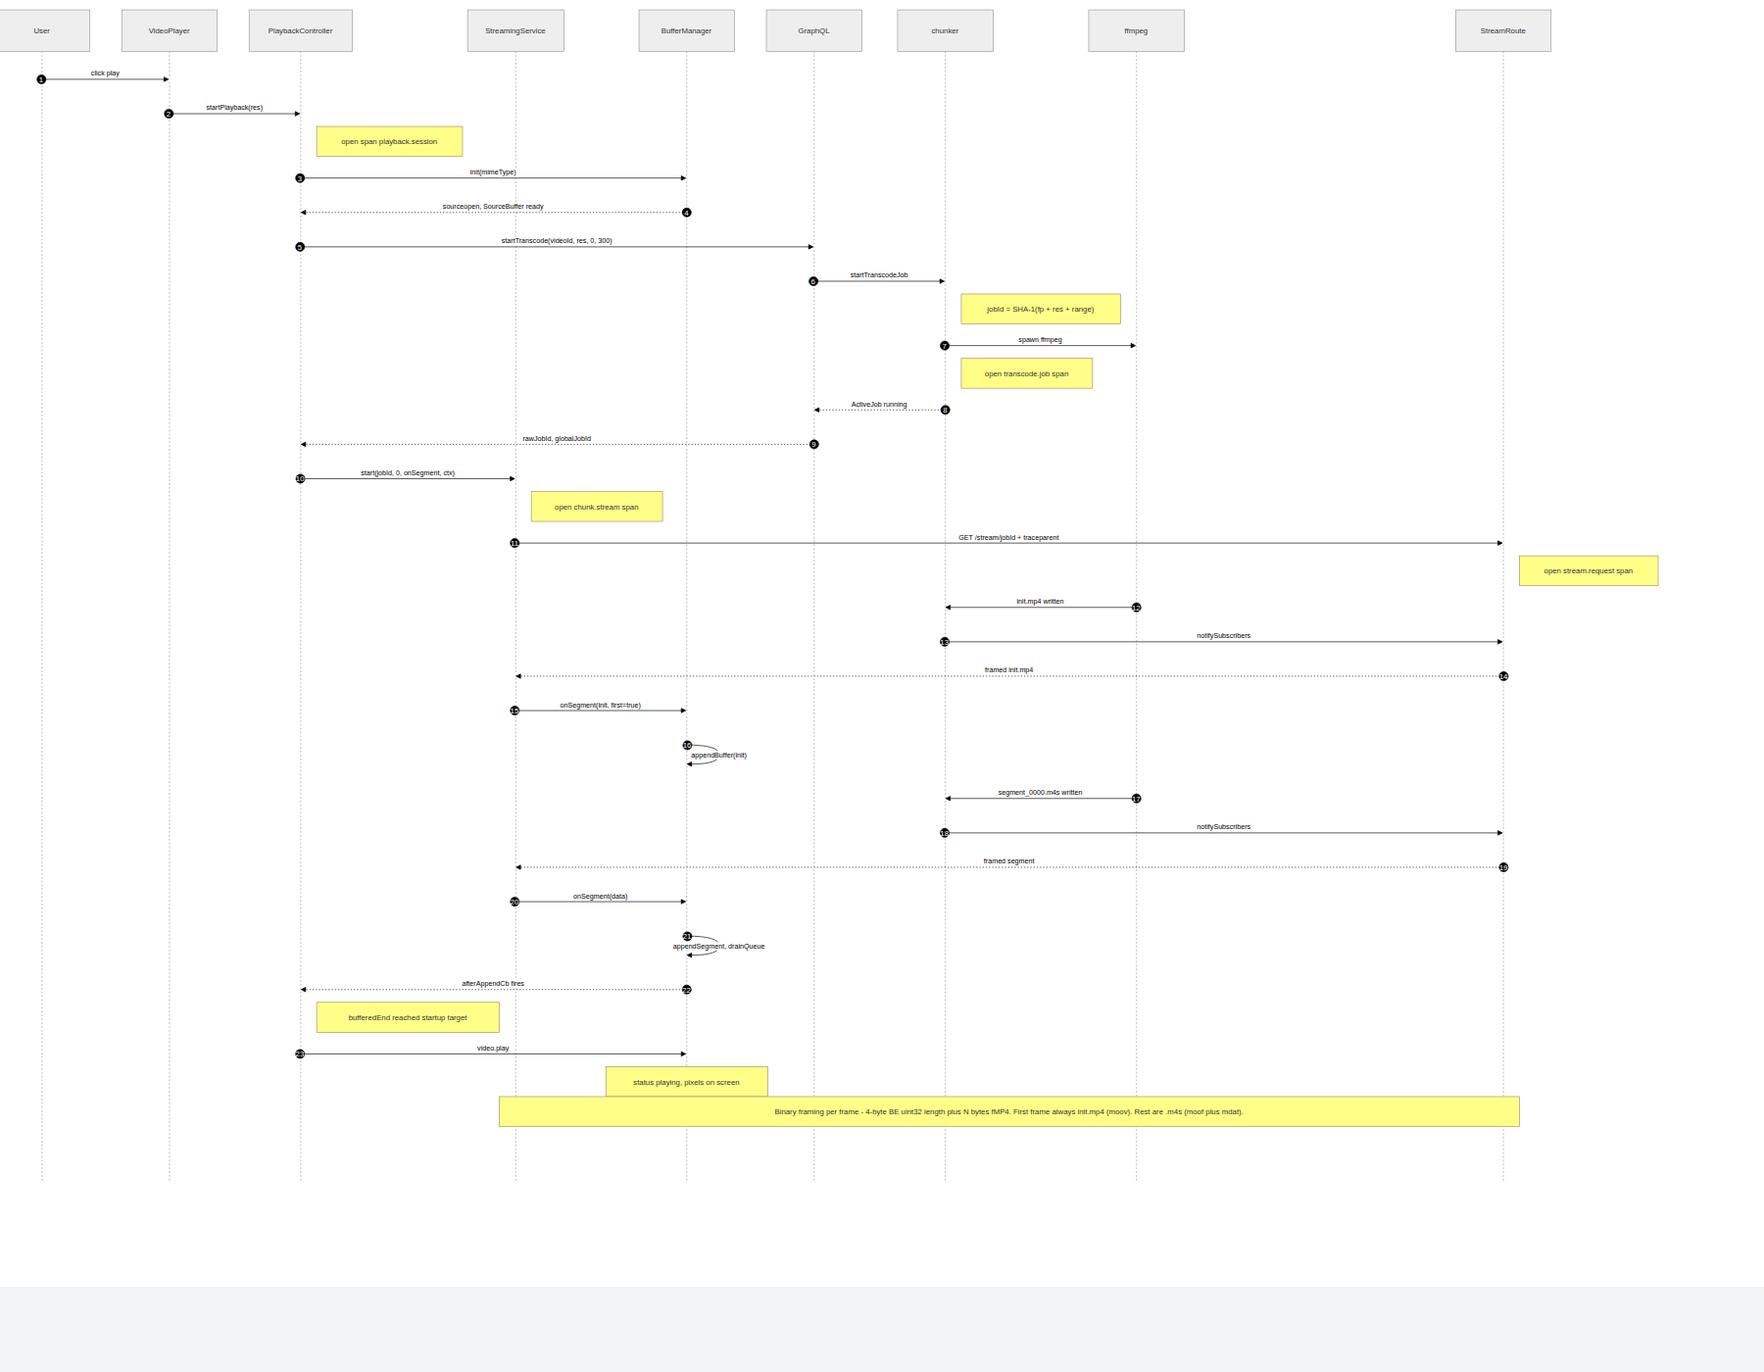
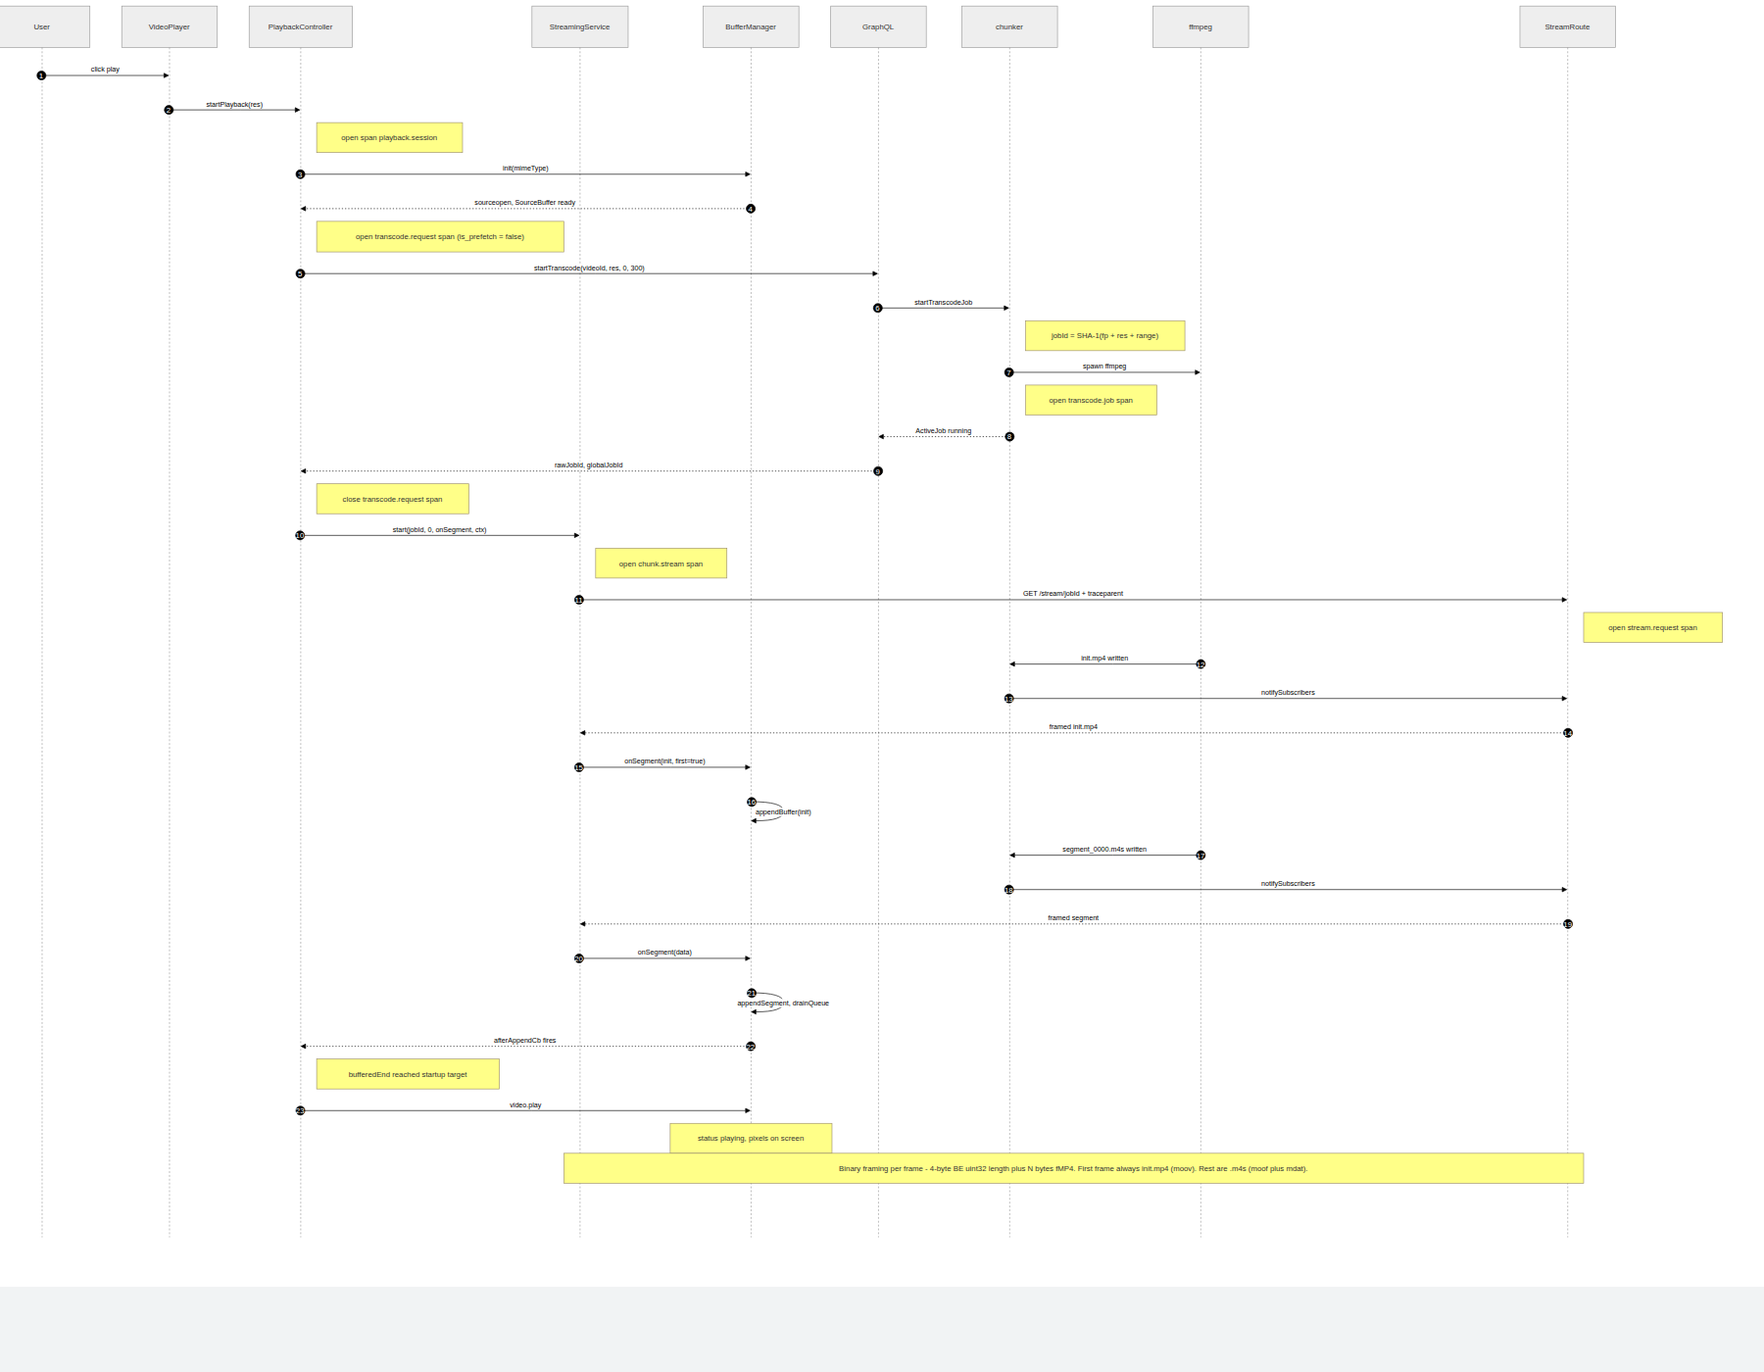
feat(telemetry): add buffer.halt + transcode.request spans
Adds two new OTel spans to close the observability gaps requested:

- `buffer.halt` (BufferManager.checkForwardBuffer) — opens when
  bufferedAhead crosses FORWARD_TARGET_S (20s) and the append loop
  pauses; closes when it drains back under RESUME_THRESHOLD_S (15s).
  Parented under `playback.session` (not `chunk.stream`) so halts that
  span chunk boundaries are still measured end-to-end. Attributes:
  buffered_ahead at pause/resume, target_s, resume_threshold_s,
  bytes_at_pause. Leaked spans are closed in `teardown()`.

- `transcode.request` (PlaybackController.requestChunk) — wraps the
  `startTranscodeChunk` mutation so the automatic graphql.request HTTP
  span nests underneath. `chunk.is_prefetch` attribute separates the
  click-play / seek / resolution-switch requests from the 60s-lookahead
  prefetches.

Also enriches the existing `chunk.stream` span with `bytes_streamed`
and `segments_received` end-attributes so per-chunk bandwidth is one
span away instead of an aggregation over segment logs.

Docs + the four streaming sequence diagrams (plus regenerated PNGs)
are updated in the same commit per the /update-docs policy.

diff --git a/client/src/services/PlaybackController.ts b/client/src/services/PlaybackController.ts
@@ -327,18 +327,26 @@ export class PlaybackController {
     // stream.request under this chunk.stream span.
     const chunkCtx = trace.setSpan(getSessionContext(), chunkSpan);
 
-    const wrappedOnDone = (): void => {
+    let totalMediaBytes = 0;
+    let segmentCount = 0;
+
+    const endChunkSpan = (): void => {
+      chunkSpan.setAttribute("chunk.bytes_streamed", totalMediaBytes);
+      chunkSpan.setAttribute("chunk.segments_received", segmentCount);
       chunkSpan.end();
+    };
+
+    const wrappedOnDone = (): void => {
+      endChunkSpan();
       onDone();
     };
     const wrappedOnError = (err: Error): void => {
       chunkSpan.setStatus({ code: SpanStatusCode.ERROR, message: err.message });
-      chunkSpan.end();
+      endChunkSpan();
       onError(err);
     };
 
     const svc = new StreamingService();
-    let totalMediaBytes = 0;
     const videoEl = this.deps.videoEl;
 
     void svc.start(
@@ -357,6 +365,7 @@ export class PlaybackController {
 
         if (!isInit) {
           totalMediaBytes += segData.byteLength;
+          segmentCount += 1;
         }
 
         try {
@@ -396,7 +405,8 @@ export class PlaybackController {
           });
           buffer.markStreamDone();
           this.events.onJobCreated(null);
-          chunkSpan.end();
+          chunkSpan.addEvent("chunk_no_real_content");
+          endChunkSpan();
           return;
         }
         wrappedOnDone();
@@ -408,29 +418,57 @@ export class PlaybackController {
 
   // ── Chunk scheduler ────────────────────────────────────────────────────────
 
-  /** Fires a startTranscode mutation for the given time window and returns the raw job ID. */
-  private requestChunk(res: Resolution, startS: number, endS: number): Promise<string> {
+  /** Fires a startTranscode mutation for the given time window and returns the raw job ID.
+   * `isPrefetch` distinguishes RAF-driven prefetch requests from on-demand chain calls
+   * on the `transcode.request` span so Seq queries like
+   * `SpanName = 'transcode.request' and chunk.is_prefetch = true` are one click away. */
+  private requestChunk(
+    res: Resolution,
+    startS: number,
+    endS: number,
+    isPrefetch: boolean
+  ): Promise<string> {
     const videoDurationS = this.deps.getVideoDurationS();
     const clampedEnd = Math.min(endS, videoDurationS);
-    playbackLog.info(`Requesting chunk [${startS}s, ${clampedEnd}s)`, {
-      start_s: startS,
-      end_s: clampedEnd,
-    });
-    return this.deps
-      .startTranscodeChunk({
-        resolution: res,
-        startTimeSeconds: startS,
-        endTimeSeconds: clampedEnd,
-      })
+    playbackLog.info(
+      `Requesting chunk [${startS}s, ${clampedEnd}s)${isPrefetch ? " (prefetch)" : ""}`,
+      { start_s: startS, end_s: clampedEnd, is_prefetch: isPrefetch }
+    );
+    const sessionCtx = getSessionContext();
+    const requestSpan = playbackTracer.startSpan(
+      "transcode.request",
+      {
+        attributes: {
+          "chunk.start_s": startS,
+          "chunk.end_s": clampedEnd,
+          "chunk.resolution": res,
+          "chunk.is_prefetch": isPrefetch,
+        },
+      },
+      sessionCtx
+    );
+    const requestCtx = trace.setSpan(sessionCtx, requestSpan);
+    return context
+      .with(requestCtx, () =>
+        this.deps.startTranscodeChunk({
+          resolution: res,
+          startTimeSeconds: startS,
+          endTimeSeconds: clampedEnd,
+        })
+      )
       .then(({ rawJobId, globalJobId }) => {
         this.events.onJobCreated(globalJobId);
+        requestSpan.setAttribute("chunk.job_id", rawJobId);
+        requestSpan.end();
         playbackLog.info(
           `Chunk job ${rawJobId.slice(0, 8)} created for [${startS}s, ${clampedEnd}s)`,
-          { job_id: rawJobId, start_s: startS, end_s: clampedEnd }
+          { job_id: rawJobId, start_s: startS, end_s: clampedEnd, is_prefetch: isPrefetch }
         );
         return rawJobId;
       })
       .catch((err: Error) => {
+        requestSpan.setStatus({ code: SpanStatusCode.ERROR, message: err.message });
+        requestSpan.end();
         playbackLog.error("Chunk mutation error", { message: err.message });
         throw err;
       });
@@ -452,7 +490,7 @@ export class PlaybackController {
     this.chunkEnd = chunkEnd;
     this.prefetchFired = false;
 
-    void this.requestChunk(res, startS, chunkEnd)
+    void this.requestChunk(res, startS, chunkEnd, false)
       .then((rawJobId) => {
         const isLast = chunkEnd >= videoDurationS;
 
@@ -528,7 +566,7 @@ export class PlaybackController {
               time_until_end_s: parseFloat(timeUntilEnd.toFixed(1)),
             }
           );
-          void this.requestChunk(res, nextStart, nextEnd)
+          void this.requestChunk(res, nextStart, nextEnd, true)
             .then((rawJobId) => {
               this.nextJobId = rawJobId;
             })
@@ -625,7 +663,8 @@ export class PlaybackController {
         void this.requestChunk(
           newRes,
           chunkStart,
-          Math.min(chunkStart + CHUNK_DURATION_S, videoDurationS)
+          Math.min(chunkStart + CHUNK_DURATION_S, videoDurationS),
+          false
         )
           .then((rawJobId) => {
             const bgSvc = this.streamChunk(

diff --git a/client/src/services/BufferManager.ts b/client/src/services/BufferManager.ts
@@ -1,6 +1,11 @@
-import { getClientLogger } from "~/telemetry.js";
+import { type Span } from "@opentelemetry/api";
+
+import { getClientLogger, getClientTracer } from "~/telemetry.js";
+
+import { getSessionContext } from "./playbackSession.js";
 
 const log = getClientLogger("bufferManager");
+const tracer = getClientTracer("bufferManager");
 
 const DEFAULT_FORWARD_BUFFER_TARGET_S = 20;
 const BACK_BUFFER_KEEP_S = 5;
@@ -29,6 +34,7 @@ export class BufferManager {
   private forwardTarget: number;
   private forwardResume: number;
   private streamPaused = false;
+  private haltSpan: Span | null = null;
   private afterAppendCb: (() => void) | null = null;
   private seekAbort = false;
   private videoDurationS: number;
@@ -339,6 +345,18 @@ export class BufferManager {
           buffer_mb: parseFloat(bufMb),
         }
       );
+      this.haltSpan = tracer.startSpan(
+        "buffer.halt",
+        {
+          attributes: {
+            "buffer.buffered_ahead_s_at_pause": parseFloat(bufferedAhead.toFixed(1)),
+            "buffer.target_s": this.forwardTarget,
+            "buffer.resume_threshold_s": this.forwardResume,
+            "buffer.bytes_at_pause": this.bytesInBuffer,
+          },
+        },
+        getSessionContext()
+      );
       this.onPause();
     } else if (bufferedAhead < this.forwardResume && this.streamPaused) {
       this.streamPaused = false;
@@ -352,6 +370,14 @@ export class BufferManager {
           buffer_mb: parseFloat(bufMb),
         }
       );
+      if (this.haltSpan) {
+        this.haltSpan.setAttribute(
+          "buffer.buffered_ahead_s_at_resume",
+          parseFloat(bufferedAhead.toFixed(1))
+        );
+        this.haltSpan.end();
+        this.haltSpan = null;
+      }
       this.onResume();
     }
   }
@@ -495,5 +521,10 @@ export class BufferManager {
     this.bytesInBuffer = 0;
     this.evictionCount = 0;
     this.segmentsAppended = 0;
+    if (this.haltSpan) {
+      this.haltSpan.addEvent("halt_ended_by_teardown");
+      this.haltSpan.end();
+      this.haltSpan = null;
+    }
   }
 }

diff --git a/docs/architecture.md b/docs/architecture.md
@@ -137,12 +137,12 @@ The client drives transcoding in **300-second chunks** rather than encoding the 
 
 > Source: [`streaming-01-initial-playback.mmd`](./diagrams/streaming-01-initial-playback.mmd)
 
-`useChunkedPlayback.startPlayback(res)` opens the `playback.session` span and drives the boot sequence:
+`PlaybackController.startPlayback(res)` opens the `playback.session` span and drives the boot sequence:
 
 1. `BufferManager.init(mimeType)` creates a `MediaSource` and arms a `SourceBuffer`.
-2. The `startTranscode` GraphQL mutation hands the server a `(videoId, resolution, 0, 300)` window.
-3. `chunker.startTranscodeJob` computes a deterministic `jobId = SHA-1(fingerprint + res + start + end)`. If `tmp/segments/<jobId>/init.mp4` exists the job is restored from cache; otherwise a new ffmpeg process spawns and `fs.watch` starts tracking segment files.
-4. The client opens a `chunk.stream` span and calls `StreamingService.start(jobId, …, ctx)`. `ctx` is propagated as `traceparent`, so the server's `stream.request` span nests under the client's `chunk.stream`.
+2. `PlaybackController.requestChunk` opens a `transcode.request` span (with `chunk.is_prefetch = false`) around the `startTranscode` GraphQL mutation for the `(videoId, resolution, 0, 300)` window. The auto-generated `graphql.request` HTTP span nests underneath via `context.with`. The span closes when the mutation resolves and records `chunk.job_id`.
+3. `chunker.startTranscodeJob` computes a deterministic `jobId = SHA-1(fingerprint + res + start + end)`. If `tmp/segments/<jobId>/init.mp4` exists the job is restored from cache; otherwise a new ffmpeg process spawns and `fs.watch` starts tracking segment files. The `transcode.job` span covers the full ffmpeg lifetime (probe + encode) and closes on `transcode_complete`, `transcode_error`, or `transcode_killed`.
+4. The client opens a `chunk.stream` span and calls `StreamingService.start(jobId, …, ctx)`. `ctx` is propagated as `traceparent`, so the server's `stream.request` span nests under the client's `chunk.stream`. On span end it records `chunk.bytes_streamed` and `chunk.segments_received` — giving per-chunk bandwidth in a single Seq query.
 5. `GET /stream/<jobId>` waits up to 60 s for `init.mp4`, writes it length-prefixed, then loops over newly-appearing `segment_NNNN.m4s` files.
 6. `StreamingService` accumulates bytes, extracts complete frames by the 4-byte length prefix, and calls `onSegment(data, isInit)` back into `BufferManager`.
 7. `BufferManager.appendSegment` serialises `SourceBuffer.appendBuffer` calls through a queue. After each append it runs `evictBackBuffer()`, `checkForwardBuffer()`, and the `afterAppendCb`.
@@ -150,7 +150,7 @@ The client drives transcoding in **300-second chunks** rather than encoding the 
 
 #### Chunk chaining
 
-When the current chunk stream finishes, `startChunkSeries` chains to the next one. A RAF prefetch loop fires the next chunk's `startTranscode` mutation when `currentTime > chunkEnd - 60s`, so the next `jobId` is usually already in hand (`nextJobIdRef`) — no mutation RTT before streaming resumes. Continuation chunks skip re-appending the init segment; the `SourceBuffer` (in `mode="sequence"`) picks up seamlessly.
+When the current chunk stream finishes, `startChunkSeries` chains to the next one. A RAF prefetch loop fires the next chunk's `startTranscode` mutation when `currentTime > chunkEnd - 60s`, so the next `jobId` is usually already in hand (`nextJobIdRef`) — no mutation RTT before streaming resumes. Prefetch requests open their own `transcode.request` span with `chunk.is_prefetch = true`, so Seq queries can separate prefetch RTT from on-demand RTT. Continuation chunks skip re-appending the init segment; the `SourceBuffer` (in `mode="sequence"`) picks up seamlessly.
 
 #### Connection-aware ffmpeg lifecycle
 
@@ -167,9 +167,9 @@ ffmpeg dies within seconds of the last tab closing — no zombies. `chunker.star
 
 > Source: [`streaming-02-backpressure.mmd`](./diagrams/streaming-02-backpressure.mmd)
 
-Once the steady-state append loop is running, `BufferManager.checkForwardBuffer` runs after every append. If `bufferedAhead > FORWARD_TARGET_S (20 s)` it calls `StreamingService.pause()`, which suspends the fetch loop on a `resumeResolve` promise — no further `reader.read()` calls are issued, so TCP back-pressure propagates all the way to the server's write loop and ffmpeg throttles naturally.
+Once the steady-state append loop is running, `BufferManager.checkForwardBuffer` runs after every append. If `bufferedAhead > FORWARD_TARGET_S (20 s)` it opens a `buffer.halt` span (parented on `playback.session` so it survives chunk boundaries) and calls `StreamingService.pause()`, which suspends the fetch loop on a `resumeResolve` promise — no further `reader.read()` calls are issued, so TCP back-pressure propagates all the way to the server's write loop and ffmpeg throttles naturally.
 
-As the `<video>` element plays and `timeupdate` fires, `bufferedAhead` drains. When it falls below `RESUME_THRESHOLD_S (15 s)`, `BufferManager` calls `StreamingService.resume()`, which resolves the promise and reawakens `reader.read()`. The 20 s / 15 s split is a hysteresis band to avoid thrashing on the boundary.
+As the `<video>` element plays and `timeupdate` fires, `bufferedAhead` drains. When it falls below `RESUME_THRESHOLD_S (15 s)`, the `buffer.halt` span is closed (its duration is the stall length) and `BufferManager` calls `StreamingService.resume()`, which resolves the promise and reawakens `reader.read()`. The 20 s / 15 s split is a hysteresis band to avoid thrashing on the boundary.
 
 ### Scenario 3: Seek
 

diff --git a/docs/observability.md b/docs/observability.md
@@ -35,7 +35,7 @@ W3C `traceparent` / `tracestate` headers are injected by the client's fetch inst
 |---|---|---|
 | `stream.request` | GET /stream/:jobId | `job_id`, `from_index`, `segments_sent`. Child of the client's `chunk.stream` span (see "Threading trace context into fetch" below). |
 | `job.resolve` | `startTranscodeJob()` entry — covers every code path that returns an `ActiveJob` | attrs: `job.id`, `job.video_id`, `job.resolution`, `job.chunk_start_s`. Events: `job_cache_hit` (already in `jobStore`), `job_inflight_resolved` (another call was mid-registration and we polled it out), `job_restored_from_db` (completed segments replayed from disk), `job_started` (new ffmpeg spawned). Exactly one event fires per span. |
-| `transcode.job` | ffmpeg process launch inside `startTranscodeJob` | `job_id`, `resolution`, `chunk_start_s`, `chunk_duration_s` |
+| `transcode.job` | ffmpeg process launch inside `startTranscodeJob` | `job.id`, `job.video_id`, `job.resolution`, `job.chunk_start_s`, `job.chunk_duration_s`. Events: `probe_complete`, `probe_error`, `transcode_started`, `transcode_error`, `transcode_killed`, `transcode_complete`. Span duration is the full ffmpeg lifetime (probe + encode). |
 | `library.scan` | scanLibraries | `library_path`, `library_name`, `files_found` |
 
 Structured log events are emitted for each significant state transition (init ready, transcode complete, scan matched, etc.) with a `component` attribute for easy filtering. When a span event already covers a state transition, do not emit a duplicate log record — prefer `span.addEvent()` over a parallel `log.info()`.
@@ -43,8 +43,10 @@ Structured log events are emitted for each significant state transition (init re
 ### Client
 | Span / log | Trigger | Key attributes |
 |---|---|---|
-| `playback.session` | startPlayback | `video_id`, `resolution` |
-| `chunk.stream` | each chunk streamed by `useChunkedPlayback` (opened around `StreamingService.start`) | `chunk.job_id`, `chunk.resolution`, `chunk.is_first`. FetchInstrumentation's HTTP span for `GET /stream/:jobId` is a child, and the server's `stream.request` is a child of that. |
+| `playback.session` | startPlayback | `video.id`, `playback.resolution` |
+| `chunk.stream` | each chunk streamed by `PlaybackController.streamChunk` (opened around `StreamingService.start`) | At start: `chunk.job_id`, `chunk.resolution`, `chunk.is_first`. At end: `chunk.bytes_streamed`, `chunk.segments_received`. FetchInstrumentation's HTTP span for `GET /stream/:jobId` is a child, and the server's `stream.request` is a child of that. |
+| `transcode.request` | `PlaybackController.requestChunk` — each `startTranscode` mutation including prefetches | `chunk.start_s`, `chunk.end_s`, `chunk.resolution`, `chunk.is_prefetch`, `chunk.job_id` (set on success). Parent is `playback.session`. The auto-generated `graphql.request` HTTP span nests underneath via `context.with`. Filter `chunk.is_prefetch = true` to isolate prefetch RTT. |
+| `buffer.halt` | `BufferManager.checkForwardBuffer` — one per back-pressure pause cycle | At pause: `buffer.buffered_ahead_s_at_pause`, `buffer.target_s`, `buffer.resume_threshold_s`, `buffer.bytes_at_pause`. At resume: `buffer.buffered_ahead_s_at_resume`. Parent is `playback.session` (halts can cross chunk boundaries). Span duration is the stall length. |
 | `graphql.request` | every Relay fetch | `operation.name` (via fetch instrumentation) |
 | log: `playback.start` | startPlayback called | `video_id`, `resolution`, `duration_s` |
 | log: `playback.seek` | seek triggered | `seek_target_s`, `snapped_to_s` |

diff --git a/CLAUDE.md b/CLAUDE.md
@@ -899,8 +899,10 @@ Full policy in `docs/observability.md`. Key rules agents must follow:
 
 | Side | Span | Where it's opened |
 |---|---|---|
-| Client | `playback.session` | `useChunkedPlayback.startPlayback` |
-| Client | `chunk.stream` | `useChunkedPlayback.streamChunk` — one per chunk; its context is threaded into `StreamingService.start(parentContext)` so the `GET /stream/:jobId` fetch span (and the server's `stream.request`) nest under it |
+| Client | `playback.session` | `PlaybackController.startPlayback` |
+| Client | `chunk.stream` | `PlaybackController.streamChunk` — one per chunk; its context is threaded into `StreamingService.start(parentContext)` so the `GET /stream/:jobId` fetch span (and the server's `stream.request`) nest under it. Records `chunk.bytes_streamed` and `chunk.segments_received` at end |
+| Client | `transcode.request` | `PlaybackController.requestChunk` — one per `startTranscode` mutation (including prefetches). `chunk.is_prefetch` attribute distinguishes RAF-driven prefetches from on-demand chain calls. The `graphql.request` HTTP span nests under it |
+| Client | `buffer.halt` | `BufferManager.checkForwardBuffer` — one per back-pressure pause→resume cycle. Parented on `playback.session` (halts can outlast a single `chunk.stream`). Span duration is the stall length |
 | Client | `graphql.request` | FetchInstrumentation (automatic) |
 | Server | `stream.request` | `routes/stream.ts` — child of client's `chunk.stream` |
 | Server | `job.resolve` | `chunker.startTranscodeJob` — covers cache-hit / inflight / restored-from-db / newly-started paths via one of four events (`job_cache_hit`, `job_inflight_resolved`, `job_restored_from_db`, `job_started`) |
